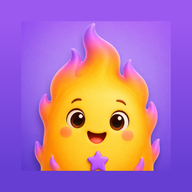
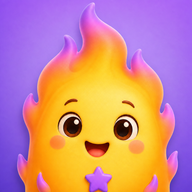
Icono Chispa Android: maskable a sangre (igual que iOS)
El maskable ahora es la imagen COMPLETA (identica a la de iOS/apple-touch), sin
encoger ni estirar. En launchers de cuadrado-redondeado (el caso comun, el del
user) Android solo redondea las esquinas -> se ve igual que iOS. Sustituye la
version que encogia/degradaba a Chispa. iOS no cambia.

Limitacion de plataforma: en launchers con mascara CIRCULAR se recortarian las
puntas de la llama (inevitable en Android maskable; no aplica al cuadrado
redondeado). El SO cachea el icono instalado -> reinstalar para verlo.

sw v96 -> v97 + ?v=97.

diff --git a/index.html b/index.html
@@ -19,7 +19,7 @@
 <link href="https://fonts.googleapis.com/css2?family=Fredoka:wght@400;500;600;700&family=Nunito:wght@400;600;700;800&display=swap" rel="stylesheet" />
 <!-- El `?v=` va apareado con el V de sw.js — subir los DOS juntos. Sin él, la 1ª apertura tras un
      deploy mezcla index nuevo + app.js viejo (cache-first) y el arranque muere. Ver sw.js. -->
-<link rel="stylesheet" href="estilos.css?v=96">
+<link rel="stylesheet" href="estilos.css?v=97">
 </head>
 <body>
 <div class="wrap">
@@ -750,6 +750,6 @@
 
 </div>
 
-<script src="app.js?v=96"></script>
+<script src="app.js?v=97"></script>
 </body>
 </html>

diff --git a/sw.js b/sw.js
@@ -12,8 +12,8 @@
 // Con el `?v=`, el SW VIEJO busca "/app.js?v=NN" en su caché, NO lo encuentra, y cae a la red
 // → recibe el app.js nuevo → el par index+app.js SIEMPRE viaja junto, ya en la 1ª apertura.
 // Los `?v=` de index.html y este V tienen que subir JUNTOS.
-const V = "96";
-const VERSION = `aulacam-v${V}`; // v96: Materias rediseñada (protagonista + segmentado + tarjetas con estado)
+const V = "97";
+const VERSION = `aulacam-v${V}`; // v97: ícono Chispa maskable = a sangre (igual a iOS; Android solo redondea esquinas)
 const SHELL = [
   "/",
   "/index.html",